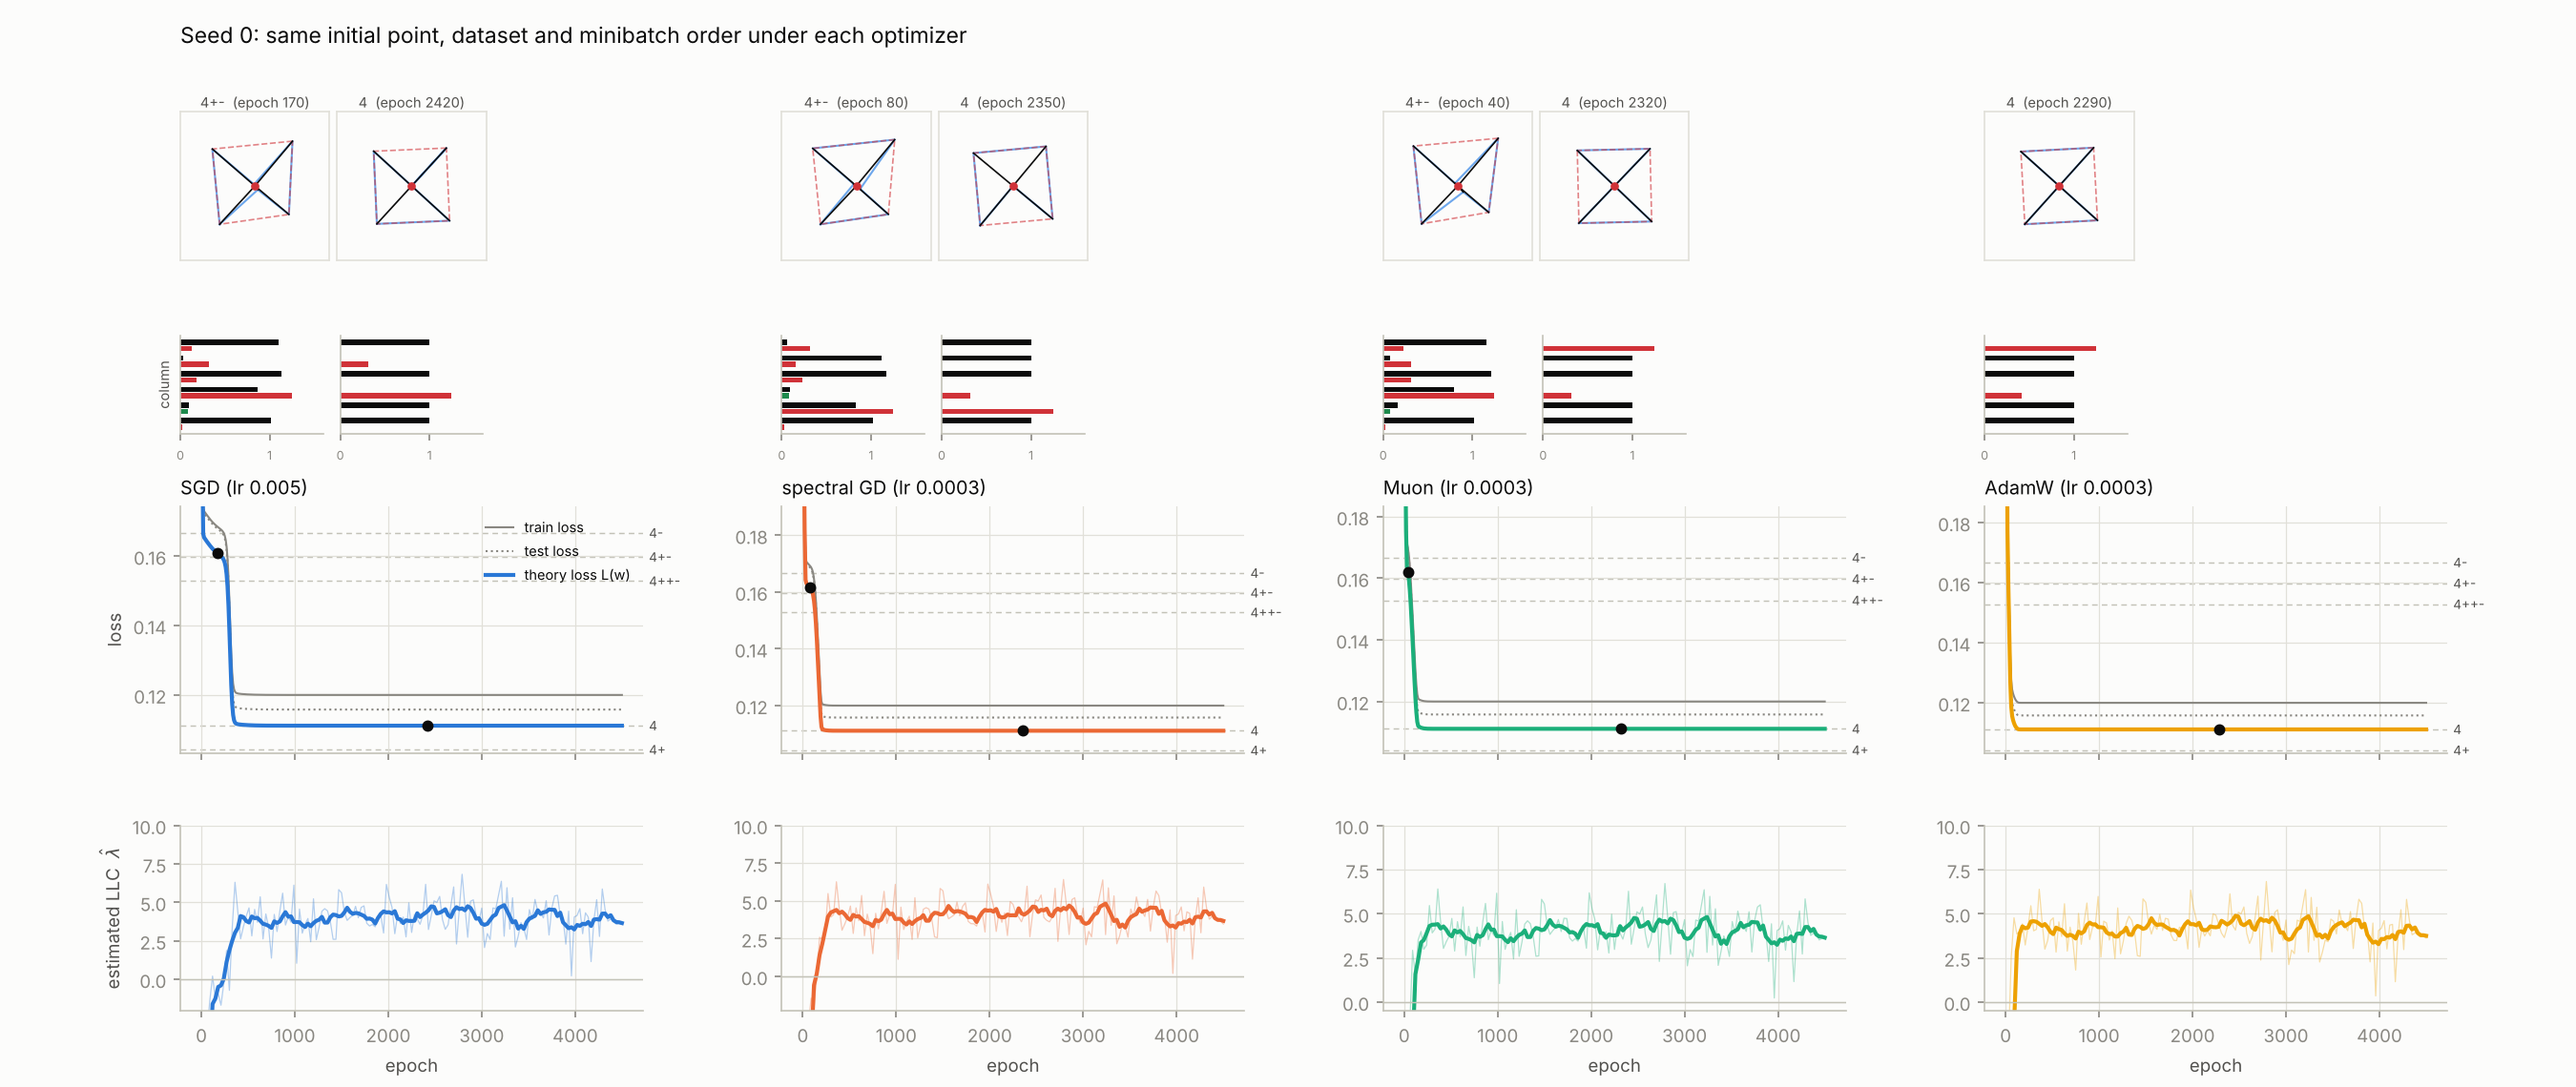
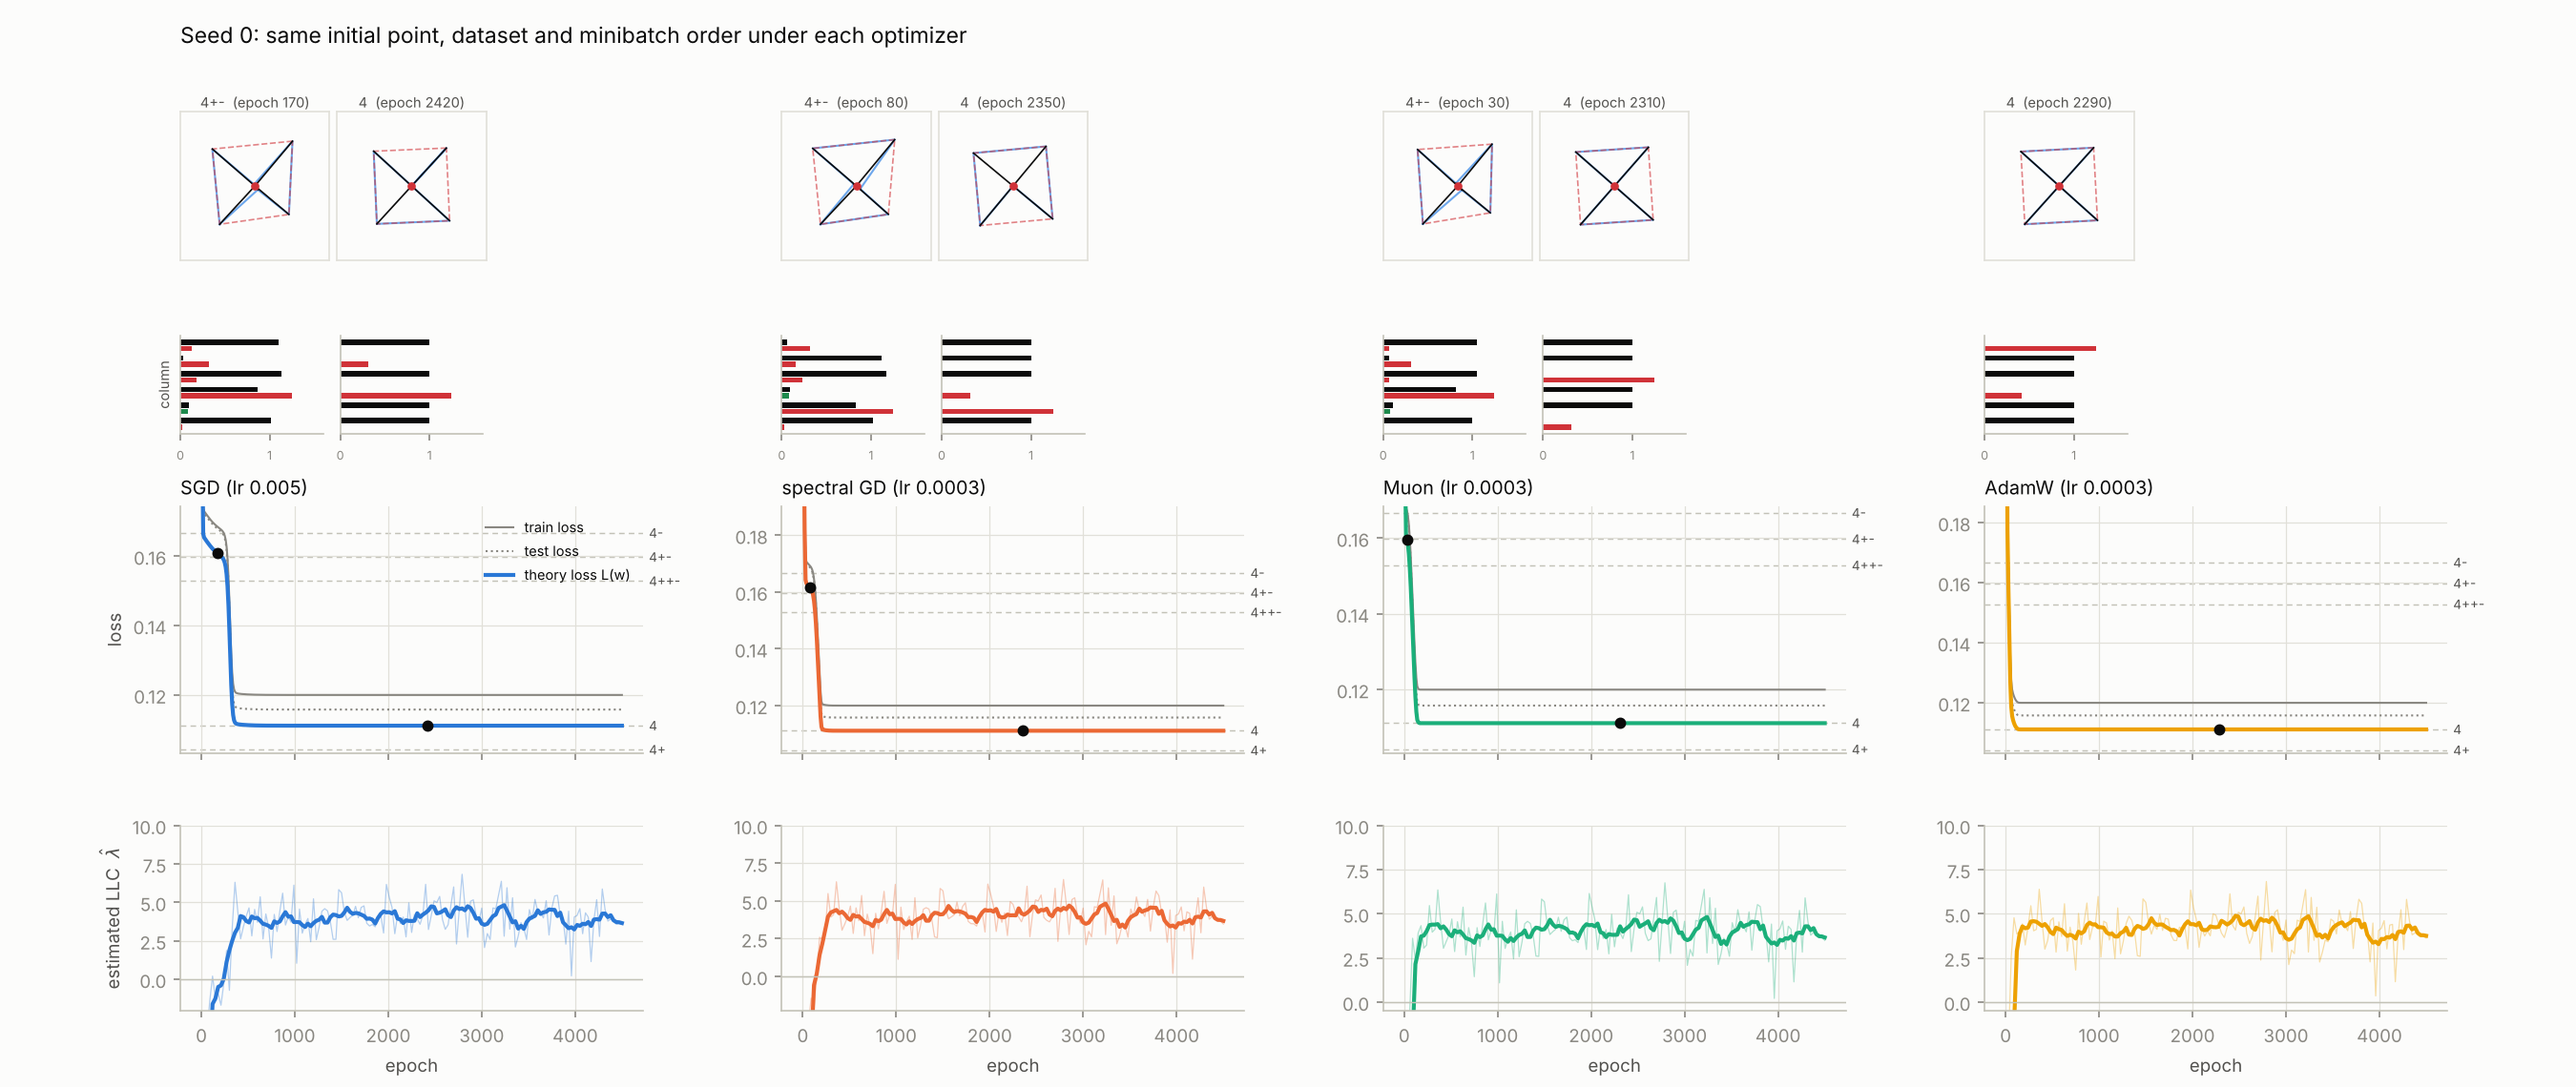
TMS: Muon uses AdamW on the bias (SGD-bias kept as ablation); rerun Muon arms, tables, figures, report
Claude-Session: https://claude.ai/code/session_01MJQEpZaDnYgWXFvcvnAAxE

diff --git a/src/muon_llc/tms/train.py b/src/muon_llc/tms/train.py
@@ -8,8 +8,11 @@ optimizer, so arms differ only in the update rule.
 Optimizer config:
     {"name": "sgd" | "adamw", "lr": ..., ...}                     both W and b under one rule
     {"name": "spectral" | "muon", "lr": ..., ..., "bias": {...}}  W under SpectralOptimizer, b under
-                                                                  the `bias` rule (default: SGD at
-                                                                  `bias_lr`, no momentum)
+                                                                  the `bias` rule. Defaults: AdamW
+                                                                  (lr 1e-3, no decay) for "muon", the
+                                                                  usual practice; plain SGD at the
+                                                                  same lr for "spectral" (idealised
+                                                                  control)
 """
 
 from __future__ import annotations
@@ -21,6 +24,9 @@ import torch
 
 from ..optim import build_optimizer
 from .model import TMSProblem, join, split, tms_loss
+
+
+MUON_BIAS_DEFAULT = {"name": "adamw", "lr": 1e-3, "weight_decay": 0.0}
 
 
 @dataclass
@@ -35,7 +41,8 @@ def build_optimizers(W, b, cfg: dict) -> list[torch.optim.Optimizer]:
     cfg = dict(cfg)
     bias_cfg = cfg.pop("bias", None)
     if cfg["name"] in ("spectral", "muon"):
-        bias_cfg = dict(bias_cfg or {"name": "gd", "lr": cfg["lr"]})
+        default = MUON_BIAS_DEFAULT if cfg["name"] == "muon" else {"name": "gd", "lr": cfg["lr"]}
+        bias_cfg = dict(bias_cfg or default)
         return [build_optimizer([W], cfg), build_optimizer([b], bias_cfg)]
     return [build_optimizer([W, b], cfg)]
 

diff --git a/tests/test_tms.py b/tests/test_tms.py
@@ -136,3 +136,18 @@ def test_per_run_datasets_match_single_dataset_runs():
     assert torch.allclose(multi.loss(th)[1], single.loss(th[1]))
     r = sgld_llc(multi, full.thetas[-1], n_steps=20, n_chains=2, data_index=np.arange(3), seed=0)
     assert np.allclose(r.loss0[1], float(single.loss(torch.tensor(full.thetas[-1, 1]))))
+
+
+def test_default_bias_rule_muon_adamw_spectral_sgd():
+    from muon_llc.optim import SpectralOptimizer
+    from muon_llc.tms.train import build_optimizers
+
+    W = torch.zeros(2, 6, requires_grad=True)
+    b = torch.zeros(6, requires_grad=True)
+    muon = build_optimizers(W, b, dict(name="muon", lr=3e-4, orth="ns", momentum=0.95, nesterov=True))
+    assert isinstance(muon[0], SpectralOptimizer) and isinstance(muon[1], torch.optim.AdamW)
+    assert muon[1].param_groups[0]["lr"] == 1e-3 and muon[1].param_groups[0]["weight_decay"] == 0.0
+    spec = build_optimizers(W, b, dict(name="spectral", lr=3e-4, orth="exact"))
+    assert isinstance(spec[1], torch.optim.SGD)
+    explicit = build_optimizers(W, b, dict(name="muon", lr=3e-4, orth="ns", bias=dict(name="gd", lr=0.005)))
+    assert isinstance(explicit[1], torch.optim.SGD)

diff --git a/src/muon_llc/tms/analysis.py b/src/muon_llc/tms/analysis.py
@@ -23,8 +23,8 @@ def arm_label(cfg: dict) -> tuple[str, str]:
     extra = f"lr {opt['lr']:g}"
     if opt.get("weight_decay"):
         extra += f", wd {opt['weight_decay']:g}"
-    if opt.get("bias", {}).get("name") == "adamw":
-        extra += ", Adam bias"
+    if opt["name"] == "muon" and opt.get("bias", {}).get("name") == "gd":
+        extra += ", SGD bias"
     return f"{base} ({extra})", color
 
 

diff --git a/src/muon_llc/experiments/tms_smoke.py b/src/muon_llc/experiments/tms_smoke.py
@@ -13,7 +13,7 @@ from . import tms_bah, tms_estimate, tms_figures, tms_train
 ARMS = {
     "sgd": {"name": "gd", "lr": 0.005},
     "muon_lr3e-4": {"name": "muon", "lr": 3e-4, "orth": "ns", "ns_steps": 5, "momentum": 0.95,
-                    "nesterov": True, "bias": {"name": "gd", "lr": 0.005}},
+                    "nesterov": True},
 }
 
 

diff --git a/results/tms/REPORT.md b/results/tms/REPORT.md
@@ -2,7 +2,8 @@
 
 Reproduction of Chen, Lau, Mendel, Wei, Murfet, *Dynamical versus Bayesian Phase Transitions in a
 Toy Model of Superposition* (arXiv 2310.06301), r = 2, c = 6, extended to AdamW, spectral GD
-(exact orthogonalised update, no momentum) and Muon (Newton–Schulz k = 5, Nesterov momentum 0.95).
+(exact orthogonalised update, no momentum) and Muon (Newton–Schulz k = 5, Nesterov momentum 0.95 on W,
+AdamW on the bias, as Muon is used in practice).
 
 ## Summary
 
@@ -13,11 +14,11 @@ Toy Model of Superposition* (arXiv 2310.06301), r = 2, c = 6, extended to AdamW,
 2. **Muon does not remove the plateau structure.** Under spectral GD and Muon, at every learning rate
    tried (1e-4 to 3e-3), trajectories sit on the same k-gon levels as under SGD; in the second half of
    training under 0.6 % of checkpoints are off a known critical point for every arm. Plateaus are
-   shorter in epochs (median 40–220 against 360 for SGD) but not shorter in distance travelled.
-3. **The Bayesian antecedent hypothesis is not contradicted by any optimizer.** Over 15 arms × 200
-   seeds (925 transitions, 25 distinct types) and 4 arms × 400 posterior-initialised runs (61
+   shorter in epochs (median 50–220 against 360 for SGD) but not shorter in distance travelled.
+3. **The Bayesian antecedent hypothesis is not contradicted by any optimizer.** Over 16 arms × 200
+   seeds (980 transitions, 24 distinct types) and 4 arms × 400 posterior-initialised runs (66
    transitions), there are **0 transitions with loss down and λ down** and 0 uphill transitions.
-   23 of 25 types have ΔL < 0, Δλ > 0 beyond the standard error and a free-energy crossing; the other
+   22 of 24 types have ΔL < 0, Δλ > 0 beyond the standard error and a free-energy crossing; the other
    two are within error of Δλ = 0 (one of them, 4⁺⁻→4, has Δλ = 1.9 ± 0.65 with the paper's own λ̂).
 4. **Muon, spectral GD and AdamW make transitions SGD did not make here, and each one has an
    antecedent.** Examples: 4⁻⁻→4⁻, 4⁺⁻⁻→4, 4⁺⁺⁻→5, and under spectral GD from posterior samples one
@@ -36,8 +37,8 @@ with Δλ ≤ 0 — none beyond error; (b) dwelling off critical points — no; 
 | Model, data | f(x) = ReLU(WᵀWx + b), W 2×6; x = μ·e_i; n = 1000, **one dataset per seed**, batch 20, 4500 epochs |
 | Init | reference-notebook init: 4-gon of length 0.9 at a random rotation + N(0, 0.01²) on W, bias ~ N(0, 1) |
 | SGD baseline | plain SGD, lr 0.005, loss = mean ‖x − f(x)‖² (the paper's L) |
-| Arms | SGD; AdamW lr 1e-4…3e-3 (+ wd 0.01); spectral GD lr 1e-4…3e-3; Muon lr 1e-4…3e-3 (+ Adam on the bias) |
-| Muon and the bias | Muon only acts on W. The bias is under plain SGD at lr 0.005 unless stated |
+| Arms | SGD; AdamW lr 1e-4…3e-3 (+ wd 0.01); spectral GD lr 1e-4…3e-3; Muon lr 1e-4…3e-3 (+ two SGD-bias ablations) |
+| Muon and the bias | Muon only acts on W. The bias is under AdamW (lr 1e-3, β = (0.9, 0.999), no decay) at every Muon lr. Ablation: bias under plain SGD at lr 0.005. Spectral GD keeps the SGD bias, as the control that changes only the update on W |
 | Seeds | 200 per arm; same init, dataset and minibatch order across arms |
 | λ̂ on trajectories | paper settings: full-batch SGLD, ε = 0.001, γ = 1, 500 steps, every 30 epochs, first 30 seeds |
 | λ̂ at critical points | paper protocol (Appendix K): n = 5000, γ = 0.1, 10 000 steps, 10 chains, their step sizes, escaped chains dropped |
@@ -74,8 +75,8 @@ zero. The paper's statement that a dead vertex's length is "subject only to l² 
 
 `trajectory_seed002.png` is the paper's Fig 1 second half: 4⁺→5 with λ̂ going from about 4.5 to 7.
 Across the 30 seeds with λ̂ estimates, every detected transition comes with a rise in on-trajectory
-λ̂: 13/13 under SGD, 15/15 under spectral GD, 10/10 under Muon (`trajectory_llc_jumps.csv`; median
-rise 4.2–5.0, smallest 1.4).
+λ̂: 13/13 under SGD, 15/15 under spectral GD, 9/9 under Muon, 4/4 under AdamW
+(`trajectory_llc_jumps.csv`; median rise 2.4–5.0, smallest 0.2 under AdamW and 1.4 otherwise).
 
 Per arm, 200 seeds (`arms_summary.csv`, `transitions.csv`):
 
@@ -86,11 +87,12 @@ Per arm, 200 seeds (`arms_summary.csv`, `transitions.csv`):
 | spectral lr 3e-4 | 127 | 132 | 89 | 43 | 0 | 4 | 0 | 80 | 2.3 |
 | spectral lr 1e-3 | 70 | 72 | 55 | 17 | 0 | 4 | 0.06 | 90 | 6.0 |
 | spectral lr 3e-3 | 37 | 38 | 38 | 0 | 0 | 4 | 0.10 | 140 | 28 |
-| Muon lr 1e-4 | 116 | 121 | 79 | 42 | 0 | 3 | 0 | 120 | 2.5 |
-| Muon lr 3e-4 | 103 | 107 | 68 | 39 | 0 | 2 | 0 | 40 | 1.1 |
-| Muon lr 1e-3 | 26 | 27 | 26 | 1 | 0 | 1 | 0.10 | 120 | 7.8 |
-| Muon lr 3e-3 | 31 | 32 | 32 | 0 | 0 | 2 | 0.14 | 170 | 29 |
-| Muon lr 1e-3, Adam bias | 16 | 16 | 16 | 0 | 0 | 1 | 0.02 | 85 | 4.5 |
+| Muon lr 1e-4 | 119 | 123 | 82 | 41 | 0 | 3 | 0.004 | 120 | 1.3 |
+| Muon lr 3e-4 | 67 | 70 | 49 | 21 | 0 | 4 | 0.01 | 50 | 0.89 |
+| Muon lr 1e-3 | 16 | 16 | 16 | 0 | 0 | 1 | 0.02 | 85 | 4.5 |
+| Muon lr 3e-3 | 15 | 15 | 15 | 0 | 0 | 1 | 0.01 | 130 | 21 |
+| Muon lr 3e-4, SGD bias | 103 | 107 | 68 | 39 | 0 | 2 | 0 | 40 | 1.1 |
+| Muon lr 1e-3, SGD bias | 26 | 27 | 26 | 1 | 0 | 1 | 0.10 | 120 | 7.8 |
 | AdamW lr 1e-4 | 48 | 50 | 41 | 9 | 0 | 5 | 0.58 | 125 | 0.64 |
 | AdamW lr 3e-4 | 32 | 32 | 28 | 4 | 0 | 1 | 0 | 80 | 0.86 |
 | AdamW lr 1e-3 | 18 | 18 | 17 | 1 | 0 | 1 | 0 | 50 | 1.0 |
@@ -100,26 +102,34 @@ Per arm, 200 seeds (`arms_summary.csv`, `transitions.csv`):
 "Inconclusive" is almost entirely the single type 4⁺⁻→4 (see below). The fall in transition counts
 at high learning rate is partly a detection limit: a plateau must last 3 checkpoints (30 epochs), and
 fast arms pass through the early states sooner than that. End states show where they go regardless:
-AdamW ends in a 5- or 5⁺-gon in 63–84 of 200 runs, spectral GD in 35–54, Muon in 23–53, SGD in 18.
+AdamW ends in a 5- or 5⁺-gon in 63–84 of 200 runs, Muon in 22–64, spectral GD in 35–54, SGD in 18.
+
+**Bias rule.** Putting the bias under AdamW instead of SGD changes rates, not the picture. At lr 3e-4
+Muon makes fewer detected transitions (70 against 107). The drop is in the dead-vertex revivals
+(4⁺⁻→4: 21 against 39; 4⁺⁻⁻→4⁻: 4 against 12; 4⁺⁺⁻→4⁺: 3 against 11) while 4⁺→5 is unchanged (18), and
+the end states are nearly identical (4-gon 76 against 78, 5/5⁺-gon 30 against 26), so the revivals
+still happen but the starting plateau is too short to register. At lr 1e-3 more runs end in a 5- or
+5⁺-gon (53 against 30). The plateau levels, the kinds of transition and the
+BAH verdicts are the same under both bias rules.
 
 Transition types pooled over arms (λ from theory for 5, 5⁺, 6, otherwise our Table K.1 estimate;
 error = standard error over chains; n_cr from n·ΔL + Δλ·log n + Δc = 0):
 
 | α → β | count | arms | ΔL | Δλ ± s.e. | n_cr | verdict | seen under SGD |
 |---|---|---|---|---|---|---|---|
-| 4⁺⁻ → 4 | 245 | 11 | −0.049 | 0.10 ± 0.39 | 16 | inconclusive | yes |
-| 4⁺ → 5 | 237 | 15 | −0.035 | 0.97 ± 0.30 | 189 | antecedent | yes |
-| 4⁺⁻⁻ → 4⁻ | 104 | 8 | −0.049 | 1.19 ± 0.33 | 129 | antecedent | yes |
-| 4⁺⁺ → 5⁺ | 98 | 15 | −0.035 | 1.74 ± 0.23 | 331 | antecedent | yes |
-| 4⁺⁺⁻ → 4⁺ | 71 | 7 | −0.049 | 0.88 ± 0.66 | 92 | antecedent | yes |
-| 4⁺⁻⁻⁻ → 4⁻⁻ | 35 | 6 | −0.049 | 0.27 ± 0.21 | 29 | antecedent | yes |
-| 4⁻⁻ → 4⁻ | 24 | 6 | −0.056 | 1.82 ± 0.26 | 179 | antecedent | no |
-| 4⁺⁺⁻ → 4⁺⁺ | 22 | 11 | −0.056 | 1.61 ± 0.63 | 155 | antecedent | yes |
-| 4⁺⁻ → 4⁺ | 18 | 9 | −0.056 | 1.40 ± 0.45 | 132 | antecedent | yes |
+| 4⁺⁻ → 4 | 265 | 12 | −0.049 | 0.10 ± 0.39 | 16 | inconclusive | yes |
+| 4⁺ → 5 | 245 | 16 | −0.035 | 0.97 ± 0.30 | 189 | antecedent | yes |
+| 4⁺⁻⁻ → 4⁻ | 106 | 9 | −0.049 | 1.19 ± 0.33 | 129 | antecedent | yes |
+| 4⁺⁺ → 5⁺ | 102 | 16 | −0.035 | 1.74 ± 0.23 | 331 | antecedent | yes |
+| 4⁺⁺⁻ → 4⁺ | 73 | 8 | −0.049 | 0.88 ± 0.66 | 92 | antecedent | yes |
+| 4⁺⁻⁻⁻ → 4⁻⁻ | 38 | 7 | −0.049 | 0.27 ± 0.21 | 29 | antecedent | yes |
+| 4⁺⁺⁻ → 4⁺⁺ | 24 | 12 | −0.056 | 1.61 ± 0.63 | 155 | antecedent | yes |
+| 4⁺⁻ → 4⁺ | 23 | 10 | −0.056 | 1.40 ± 0.45 | 132 | antecedent | yes |
+| 4⁻⁻ → 4⁻ | 23 | 7 | −0.056 | 1.82 ± 0.26 | 179 | antecedent | no |
+| 4⁺⁻⁻ → 4 | 19 | 6 | −0.104 | 2.71 ± 0.34 | 138 | antecedent | no |
 | 5 → 5⁺ | 15 | 3 | −0.007 | 1.5 (theory) | 1590 | antecedent | no |
-| 4⁺⁻⁻ → 4 | 15 | 5 | −0.104 | 2.71 ± 0.34 | 138 | antecedent | no |
-| 4⁺⁺⁻⁻ → 4 | 14 | 5 | −0.097 | 2.18 ± 0.42 | 117 | antecedent | no |
-| 13 rarer types | 27 | | < 0 | > 0 except one | | 12 antecedent, 1 inconclusive | |
+| 4⁺⁺⁻⁻ → 4 | 15 | 6 | −0.097 | 2.18 ± 0.42 | 117 | antecedent | no |
+| 12 rarer types | 32 | | < 0 | > 0 except one | | 11 antecedent, 1 inconclusive | |
 
 - 4⁺⁻→4 is the most common transition under every optimizer including SGD. Our estimates put the two
   ends at 4.63 ± 0.33 and 4.73 ± 0.21; the paper's Table K.1 has 3.39 and 5.30. On-trajectory λ̂
@@ -127,14 +137,14 @@ error = standard error over chains; n_cr from n·ΔL + Δλ·log n + Δc = 0):
   estimates and "antecedent" from the paper's; nothing points to a violation.
 - 4⁺⁻⁻⁻→4⁻⁻ and 4⁺⁻⁻⁻⁻→4⁻⁻⁻ occur at very small n_cr; the paper also calls these inconclusive.
 - The verdict of a transition type is a property of the loss landscape, not of the optimizer. What
-  the optimizer changes is which types occur. The 13 types that only non-SGD arms produced are all
+  the optimizer changes is which types occur. The 12 types that only non-SGD arms produced are all
   loss-down, λ-up.
 
 ### Posterior-initialised runs (Fig 3)
 
 400 NUTS samples at n = 100 as initial points, 5000 epochs, four arms. All arms end on the same
-levels (≈ 200 at the 5-gon, 118 at the 4-gon, 27–29 at the 6-gon), and lower-loss plateaus have
-higher on-trajectory λ̂ under every optimizer. Transitions: 5→5⁺ (7–10 per arm), 4⁺→5 (3–5), and under
+levels (≈ 200 at the 5-gon, 117–118 at the 4-gon, 28–29 at the 6-gon), and lower-loss plateaus have
+higher on-trajectory λ̂ under every optimizer. Transitions: 5→5⁺ (9–10 per arm), 4⁺→5 (3–5), and under
 spectral GD one 5→6 and one 4→5 (`posterior_init_transitions.csv`). The 6-gon end states are runs
 that started in the 6-gon basin, not transitions.
 
@@ -183,7 +193,7 @@ and only the quoted n_cr values would rescale.
 uv sync --extra dev --extra mcmc
 uv run pytest                                                    # theory checks included
 uv run python -m muon_llc.experiments.tms_smoke                  # 1-minute end-to-end check
-uv run python -m muon_llc.experiments.tms_arms --jobs 4          # 15 arms x 200 seeds -> runs/tms/arms
+uv run python -m muon_llc.experiments.tms_arms --jobs 4          # 16 arms x 200 seeds -> runs/tms/arms
 uv run python -m muon_llc.experiments.tms_critical_llc           # Table K.1
 uv run python -m muon_llc.experiments.tms_estimate --run runs/tms/arms/<arm>   # trajectory lambda-hat
 uv run python -m muon_llc.experiments.tms_posterior inits --out runs/tms

diff --git a/README.md b/README.md
@@ -14,9 +14,9 @@ experiments as runnable configs. Everything is a `uv` project in PyTorch. Models
 ## TMS: dynamical vs Bayesian phase transitions under Muon
 
 `src/muon_llc/tms/` reproduces Chen et al. (2023), arXiv 2310.06301 (Toy Model of Superposition,
-r = 2, c = 6) and adds AdamW, spectral GD and Muon to its figures. Results, figures and the
+r = 2, c = 6) and adds AdamW, spectral GD and Muon (Muon on W, AdamW on the bias) to its figures. Results, figures and the
 Bayesian-antecedent analysis are in [`results/tms/REPORT.md`](results/tms/REPORT.md). In short:
-under every optimizer trajectories plateau on the same k-gon critical points, and none of the 925
+under every optimizer trajectories plateau on the same k-gon critical points, and none of the 980
 observed transitions lowers the loss while lowering the learning coefficient.
 
 | Path | Purpose |
